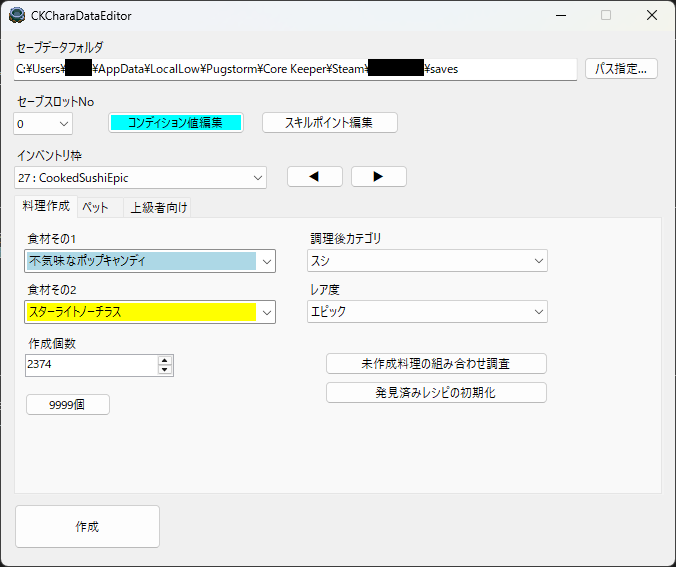
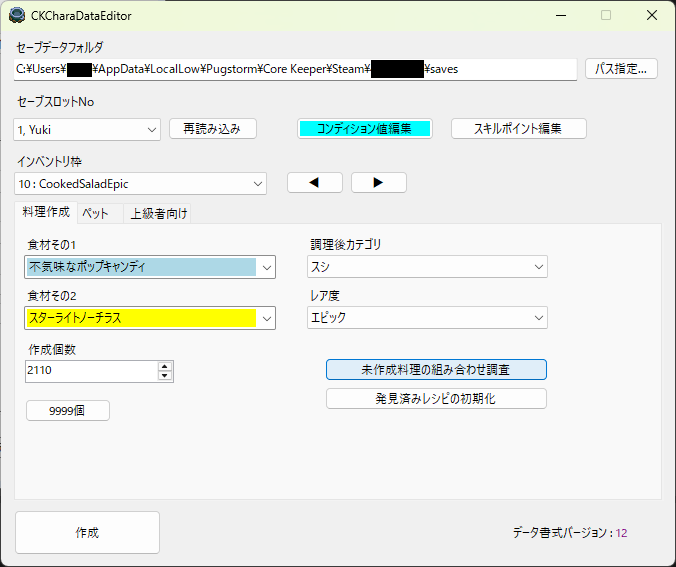
変更がゲーム側にロールバックされる問題を修正
データ書式バージョン情報を表示
ワールドGUIDの逆算を仮実装
readme 更新

diff --git a/CKCharaDataEditor/SaveDataManager.cs b/CKCharaDataEditor/SaveDataManager.cs
@@ -12,18 +12,13 @@ namespace CKCharaDataEditor
     /// </summary>
     public sealed class SaveDataManager
     {
-        private const int CharaDataFormatVersion = 11;
-
         public const int LoadItemLimit = 130;
-
         private static SaveDataManager? _instance;
         public static SaveDataManager Instance => _instance ??= new();
-
-        private string _saveDataPath = string.Empty;
-
+        private int CharaDataFormatVersion;
         private Item? _copiedItem;
-
         private Item[]? _copiedInventory;
+        private string _saveDataPath = string.Empty;
         public string SaveDataPath
         {
             get => _saveDataPath;
@@ -62,6 +57,7 @@ namespace CKCharaDataEditor
 
                 _saveData = JsonNode.Parse(saveDataContents)!.AsObject();
 
+                CharaDataFormatVersion = GetCharacterDataVersion();
                 var inventoryBase = _saveData["inventory"]!.AsArray();
                 var inventoryName = _saveData["inventoryObjectNames"]!.AsArray();
                 var inventoryAuxData = _saveData["inventoryAuxData"]!.AsArray();
@@ -106,7 +102,7 @@ namespace CKCharaDataEditor
             _saveData["inventory"]![insertIndex] = JsonNode.Parse(JsonSerializer.Serialize(itemBase, StaticResource.SerializerOption));
             _saveData["inventoryObjectNames"]![insertIndex] = objectName;
             _saveData["inventoryAuxData"]![insertIndex] = JsonNode.Parse(JsonSerializer.Serialize(auxData, StaticResource.SerializerOption));
-
+            BreakLastConnectedServerId();
             string changedJson = JsonSerializer.Serialize(_saveData, StaticResource.SerializerOption);
 
 #if DEBUG
@@ -136,6 +132,7 @@ namespace CKCharaDataEditor
             _saveData["inventory"] = JsonNode.Parse(JsonSerializer.Serialize(Items.Select(i => i.Info), StaticResource.SerializerOption));
             _saveData["inventoryObjectNames"] = JsonNode.Parse(JsonSerializer.Serialize(Items.Select(i => i.objectName), StaticResource.SerializerOption));
             _saveData["inventoryAuxData"] = JsonNode.Parse(JsonSerializer.Serialize(Items.Select(i => i.Aux), StaticResource.SerializerOption));
+            BreakLastConnectedServerId();
             string changedJson = JsonSerializer.Serialize(_saveData, StaticResource.SerializerOption);
             changedJson = RestoreJsonString(changedJson);
             File.WriteAllText(SaveDataPath, changedJson);
@@ -385,6 +382,59 @@ namespace CKCharaDataEditor
             }
             string characterName = Encoding.UTF8.GetString(byteList.ToArray());
             return characterName;
+        }
+
+        internal int GetCharacterDataVersion()
+        {
+            var version = _saveData["version"]!.GetValue<int>();
+            return version;
+        }
+
+        internal Guid GetLastConnnectedServerId()
+        {
+            var changedOrderWorldId = _saveData["lastConnectedServerGuid"]!["Value"]!.AsObject()
+                .Select(fourbyte =>
+                {
+                    byte[] bytes = new byte[4];
+                    uint values =(fourbyte.Value as JsonValue)!.GetValue<uint>();
+                    return BitConverter.GetBytes(values).ToArray();
+                })
+                .SelectMany(bytes => bytes)
+                .Select(bytes =>
+                {
+                    byte upper = (byte)((bytes & 0xF0) >> 4);
+                    byte lower = (byte)((bytes & 0x0F) << 4);
+                    return (byte)(upper | lower);
+                })
+                .ToArray();
+
+            byte[] originalId = RestoreByteOrder(changedOrderWorldId); 
+            return new Guid(originalId);
+        }
+
+        private static byte[] RestoreByteOrder(byte[] changedbytes)
+        {
+            byte[] originalId = new byte[16];
+            int[] map = 
+            [
+                3, 2, 1, 0,    // reverse first 4 bytes
+                5, 4,          // reverse next 2 bytes
+                7, 6,          // reverse next 2 bytes
+                8, 9, 10, 11, 12, 13, 14, 15 // keep as is
+            ];
+            for (int i = 0; i < map.Length; i++)
+            {
+                originalId[i] = changedbytes[map[i]];
+            }
+            return originalId;
+        }
+
+        private void BreakLastConnectedServerId()
+        {
+            JsonObject valueObj = _saveData["lastConnectedServerGuid"]!["Value"]!.AsObject();
+            uint x = valueObj["x"]!.GetValue<uint>();
+            valueObj["x"] = x + 1;
+            _saveData["lastConnectedServerGuid"]!["Value"] = valueObj;
         }
     }
 }

diff --git a/CKCharaDataEditor/Form1.Designer.cs b/CKCharaDataEditor/Form1.Designer.cs
@@ -87,6 +87,7 @@
             openSkillbutton = new Button();
             slotReloadbutton = new Button();
             label13 = new Label();
+            dataFormatLabel = new Label();
             itemEditTabControl.SuspendLayout();
             foodTab.SuspendLayout();
             ((System.ComponentModel.ISupportInitialize)createdNumericNo).BeginInit();
@@ -689,17 +690,28 @@
             // 
             // label13
             // 
-            label13.ForeColor = Color.Red;
-            label13.Location = new Point(328, 479);
+            label13.AutoSize = true;
+            label13.Location = new Point(509, 494);
             label13.Name = "label13";
-            label13.Size = new Size(334, 45);
+            label13.Size = new Size(107, 15);
             label13.TabIndex = 20;
-            label13.Text = "編集が無効化される可能性があります。作成後のゲーム起動時は毎回新規ワールドを作成して入り、編集内容を確定させてください。詳しくはreadmeへ。";
+            label13.Text = "データ書式バージョン :";
+            // 
+            // dataFormatLabel
+            // 
+            dataFormatLabel.AutoSize = true;
+            dataFormatLabel.ForeColor = Color.Purple;
+            dataFormatLabel.Location = new Point(611, 494);
+            dataFormatLabel.Name = "dataFormatLabel";
+            dataFormatLabel.Size = new Size(45, 15);
+            dataFormatLabel.TabIndex = 21;
+            dataFormatLabel.Text = "version";
             // 
             // Form1
             // 
             AutoScaleMode = AutoScaleMode.None;
             ClientSize = new Size(674, 535);
+            Controls.Add(dataFormatLabel);
             Controls.Add(label13);
             Controls.Add(slotReloadbutton);
             Controls.Add(openSkillbutton);
@@ -794,5 +806,6 @@
         private Control.PetEditControl petEditControl;
         private Button slotReloadbutton;
         private Label label13;
+        private Label dataFormatLabel;
     }
 }

diff --git a/CKCharaDataEditor/Resource/PetResource.cs b/CKCharaDataEditor/Resource/PetResource.cs
@@ -66,7 +66,7 @@ namespace CKCharaDataEditor.Resource
                 (19, "フレイムキャンディ", "ベローズ", "ヒット時に相手の燃焼効果を消費し即座に合計燃焼ダメージを与える確率+15%", "飼い主へのバフ:ヒット時に相手の燃焼効果を消費し即座に合計燃焼ダメージを与える確率+3%"),
                 (20, "ソニッククロウ", "ソニックタロン", "+1体の敵を発射物が貫通", "飼い主へのバフ:+1体の敵を発射物が貫通"),
                 (21, "Missing", "ウィングエスケープ", "移動不可および気絶時間減少+0%", "飼い主へのバフ:移動不可および気絶時間減少+10%"),
-                (22, "エネルギータップ", "Missing", "ヒット時にマナを得られる確率+10%", "飼い主へのバフ:ヒット時にマナを得られる確率"),
+                (22, "エネルギータップ", "Missing", "ヒット時にマナを得られる確率+10%", "飼い主へのバフ:ヒット時にマナを得られる確率+1%"),
                 (23, "Missing", "マナボウル", "+2.0マナ/毎秒", "飼い主へのバフ:+2.0マナ/毎秒"),
                 (24, "Missing", "神秘術の野獣", "魔法ダメージ+10.0%", "飼い主へのバフ:魔法ダメージ+3.0%"),
                 (25, "局地的放射性降下物", "放射能汚染の匂い", "周辺の敵全員に20の放射線ダメージを2秒ごとに与える", "飼い主へのバフ:周辺の敵全員に0の放射線ダメージを2秒ごとに与える"),

diff --git a/CKCharaDataEditor/UpdateChecker.cs b/CKCharaDataEditor/UpdateChecker.cs
@@ -5,7 +5,7 @@ namespace CKCharaDataEditor
 {
     public static class UpdateChecker
     {
-        private const string _currentVersion = "1.4.4"; // todo 新バージョンリリース時に手動で更新すること
+        private const string _currentVersion = "1.4.5"; // todo 新バージョンリリース時に手動で更新すること
         private const string _repoOwner = "KujoYuki";
         private const string _repoName = "CoreKeeperCharaDataEditor";
         private const string _uri = $"https://api.github.com/repos/{_repoOwner}/{_repoName}/releases/latest";

diff --git a/CKCharaDataEditor/Form1.cs b/CKCharaDataEditor/Form1.cs
@@ -231,7 +231,7 @@ namespace CKCharaDataEditor
             {
                 saveSlotNoComboBox.SelectedItem = saveSlotNoComboBox.Items[0];
             }
-
+            dataFormatLabel.Text = _saveDataManager.GetCharacterDataVersion().ToString();
             LoadItems();
         }
 

diff --git a/README.md b/README.md
@@ -4,23 +4,6 @@
 通常の手段では作れない料理の作成やアイテムの編集を目的として制作しています。  
 ダウンロードは[こちら](https://github.com/KujoYuki/CoreKeeperCharaDataEditor/releases/latest/)から。
 
-## ゲームバージョン1.1.2以降で使う場合の注意！
-2025/05/14にゲームバージョンが1.1.2に更新されました。
-このバージョンでは当ツールによる変更が無効化されることがあります。
-原因は、このゲームバージョンに含まれる以下の[不具合修正](https://store.steampowered.com/news/app/1621690/view/536600910254571565?l=japanese)です。
-> プレイヤーが所持品を変更している間に切断が発生しても、同一のサーバーへの再接続時にアイテムが喪失することがなくなりました。
-
-これにより、内部ではワールドデータ側でログアウト時の同一キャラのインベントリの一部をバックアップを保持するようになっており、差異が出た場合にワールドデータ側が優先されるようになりました。
-### 対策
-キャラ編集後にゲームを起動した場合、一度完全新規のワールドを作成して、編集したキャラで「必ず」新規ワールドに先に入ってください。
-この場合は、本来のワールドと差異が生じてもキャラデータ側が優先されるため、編集内容が全て反映されます。
-以上は暫定的な対策であり、根本的な対策は模索中です。
-
-### 余談
-本ツールとは関係無い話ですが、上記の公式による修正は「マルチプレイ時のラグでアイテムが喪失する事態」対策ですが、ワールドGUIDが等しい場合（=いわゆるコピーワールド）を行き来した場合はソロプレイでも発生します。アイテム喪失バグです。
-コピーワールドを行き来してアイテムを喪失した場合は本ツールは全く関係無いため、予めご了承ください。
-
-
 ## このツールで出来ること
 - 任意の食材の組み合わせによる料理を作成します。  
   - 料理のレア度や個数を調整することが出来ます。  

diff --git a/Document/parameter.md b/Document/parameter.md
@@ -117,3 +117,9 @@ variationの530916853はバイナリ(2進数)に変換すると
     // 中略
 ],
 ```
+
+## データ書式バージョンについて
+
+ゲームバージョンに対してキャラクターのデータのバージョンも存在しています。
+キャラ側で管理する属性が増えるとこのバージョンが更新されます。
+本ツールでは参考程度に、このバージョン情報を表示内に持つようにしています。
